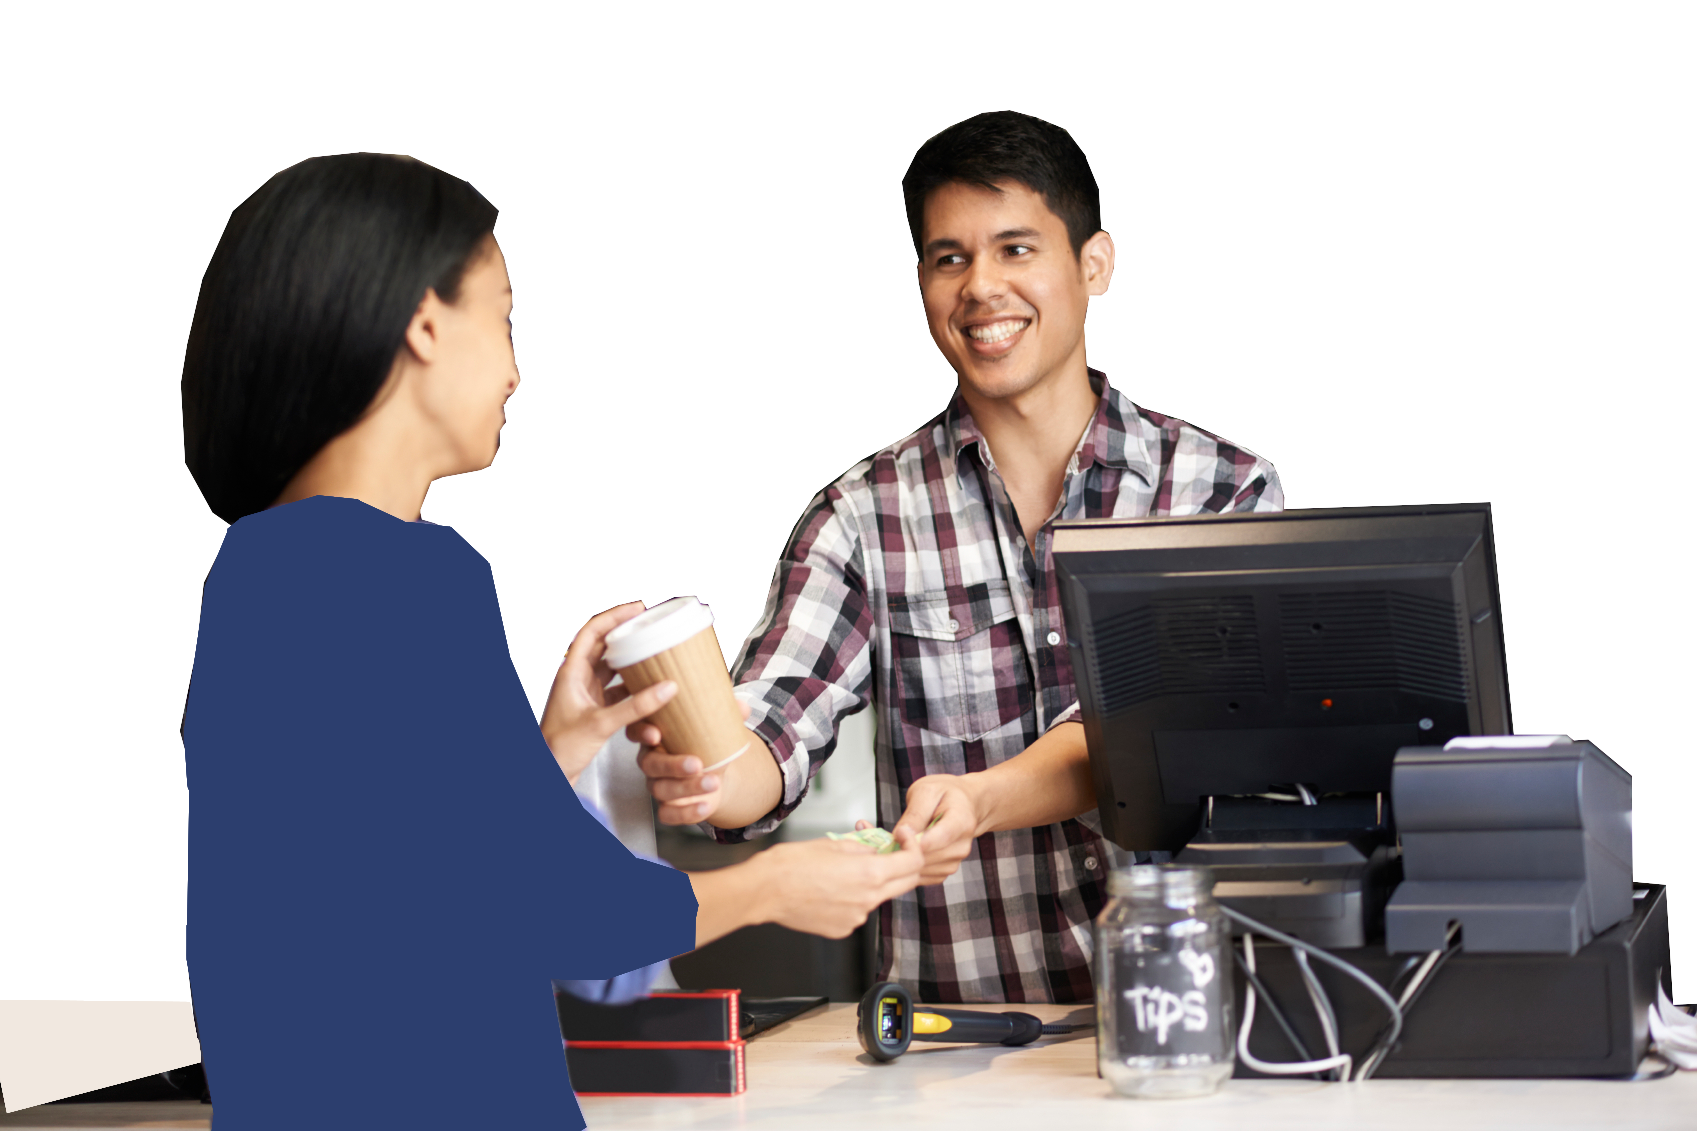
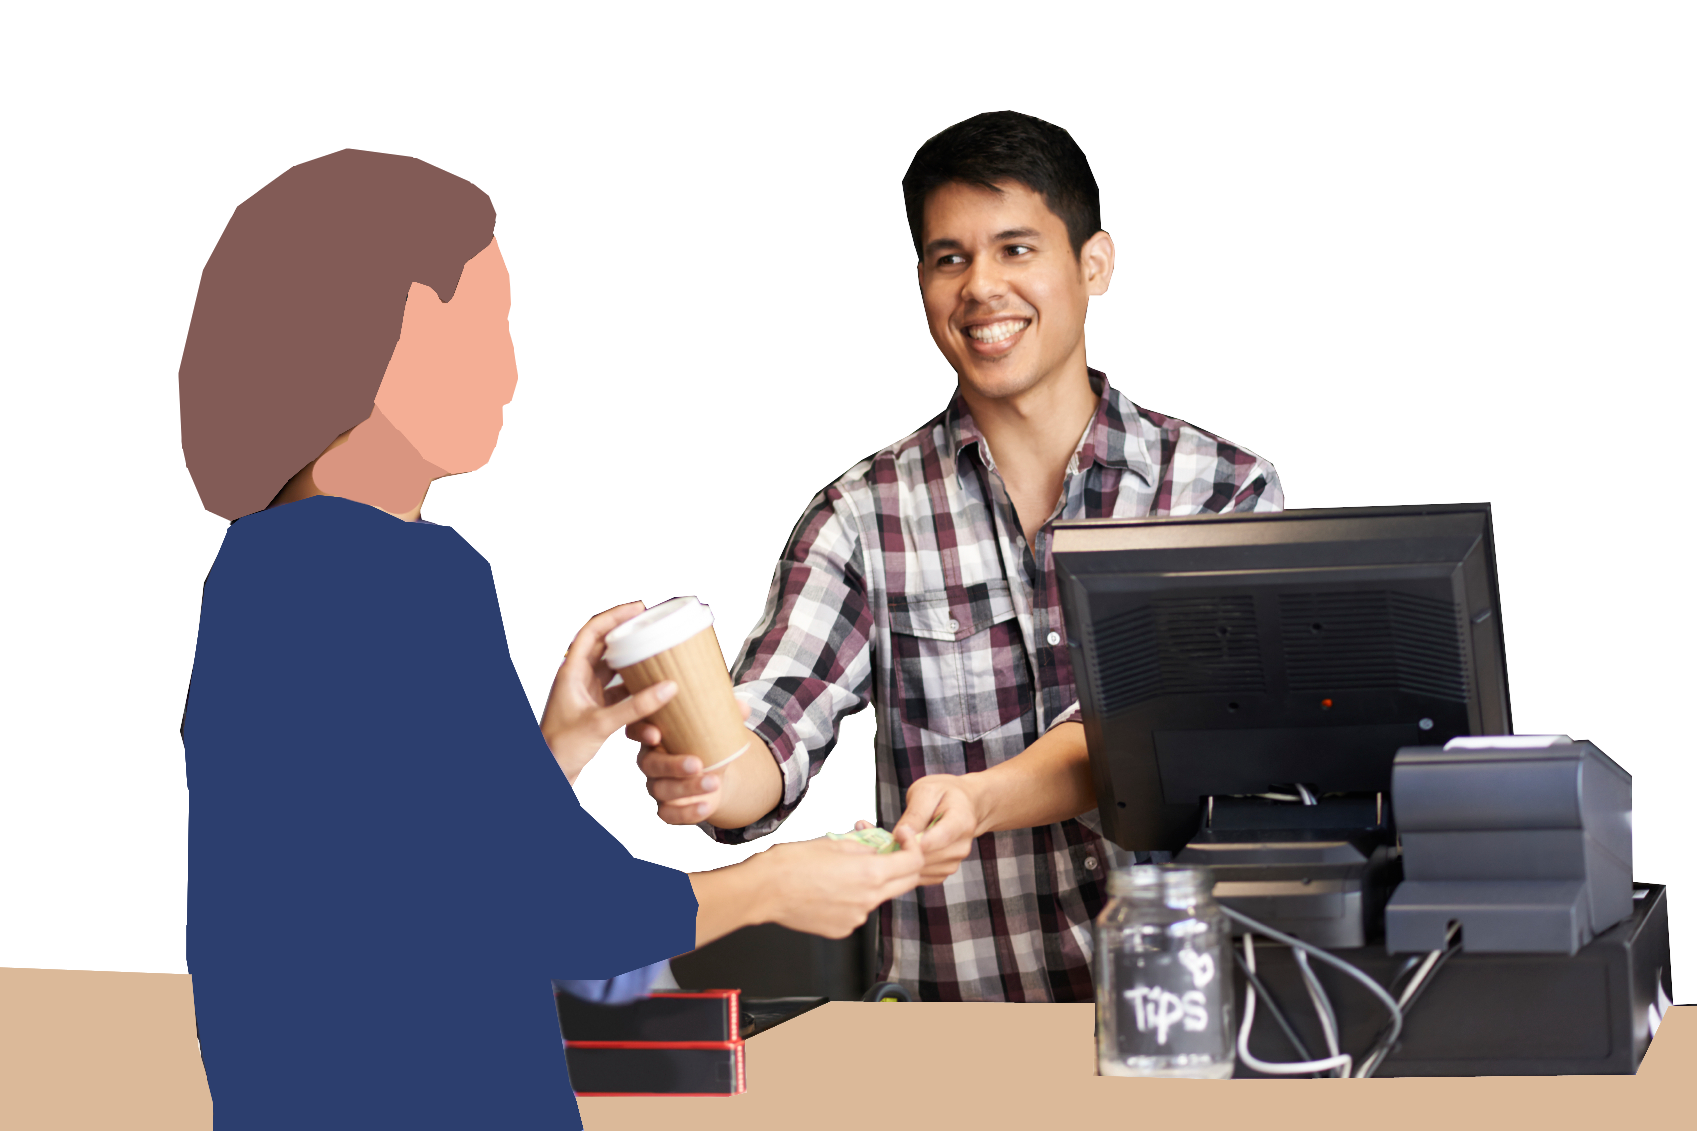
Redesigned products pages (black box on the forward of picture). Changed some illustrations.

diff --git a/website/templates/eye_guest.html b/website/templates/eye_guest.html
@@ -8,32 +8,35 @@
 
 {% block body %}
 	<header style="background-image: url('/static/img/eyeGuest/header.jpg');"> 
-		<div class="container text-center">
-			<div>
-				<h1 class="display-3">Eye-Guest</h1>
-				<h2 class="display-4" style="font-weight: 300 !important;">Узнайте вашего клиента. Без карт и приложений.</h2>
-				<ul>
-					<li>Restaurants, cafes, fastfoods</li>
-					<li>Hotels</li>
-					<li>Retails</li>
-				</ul>
-				<button class="btn btn-primary">Попробовать</button>
-				<button class="btn btn-secondary">Подробнее</button>
+		<div class="container text-center" style="">
+			<h1 class="">Eye-Guest</h1>
+			<h2 class="display-3">Узнайте вашего клиента. Без карт и приложений.</h2>
+			<hr class="mb-4">
+			<div class="row px-4 mb-4 text-left">
+				<div class="col">
+					<h3>Description</h3> 
+					Easy loyanlty programs
+					Eye-Service is AI based technology for match best waiter to each group f your guests. 
+					Some some some some some text tex text text here<br>
+					BTW: 
+					<ul>
+						<li>Restaurants, cafes, fastfoods</li>
+						<li>Hotels</li>
+						<li>Retails</li>
+					</ul>
+				</div>
+				<div class="col">  
+					<h3>Integration</h3>
+					Integration with R-Keeper, IIKO and 
+					</div>	
+				<div class="col">
+					<h3>Prices</h3> 
+				</div>
 			</div>
+			
+			<button class="btn btn-try text-uppercase">Попробовать</button>
 		</div>
 	</header>
-
-	<section> 
-		<h2>Easy loyanlty programs</h2>
-		Integration with R-Keeper, IIKO and 
-	</section>
-
-	<section> 
-		<h2 class="text-center">Installation</h2>
-		
-		<div class="container">
-		</div> 
-	</section>
 {% endblock %}
 
 

diff --git a/website/templates/eye_marketer.html b/website/templates/eye_marketer.html
@@ -8,13 +8,33 @@
 
 {% block body %}
 	<header style="background-image: url('/static/img/eyeMarketer/header.jpg');"> 
-		<div class="container text-center">
-			<div>
-				<h1 class="display-3">eyeMarketer</h1>
-				<h2 class="display-4">Портет гостся для каждого чека. Более 300 метрик.</h2>
-				<button class="btn btn-primary">Попробовать</button>
-				<button class="btn btn-secondary">Подробнее</button>
+		<div class="container text-center" style="">
+			<h1 class="">Eye-Marketer</h1>
+			<h2 class="display-4">Портет гостся для каждого чека. Более 300 метрик.</h2>
+			<hr class="mb-4">
+			<div class="row px-4 mb-4 text-left">
+				<div class="col">
+					<h3>Description</h3> 
+					Easy loyanlty programs
+					Eye-Service is AI based technology for match best waiter to each group f your guests. 
+					Some some some some some text tex text text here<br>
+					BTW: 
+					<ul>
+						<li>Restaurants, cafes, fastfoods</li>
+						<li>Hotels</li>
+						<li>Retails</li>
+					</ul>
+				</div>
+				<div class="col">  
+					<h3>Integration</h3>
+					Integration with R-Keeper, IIKO and 
+					</div>	
+				<div class="col">
+					<h3>Prices</h3> 
+				</div>
 			</div>
+			
+			<button class="btn btn-try text-uppercase">Попробовать</button>
 		</div>
 	</header>
 {% endblock %}

diff --git a/website/templates/eye_service.html b/website/templates/eye_service.html
@@ -8,25 +8,33 @@
 
 {% block body %}
 	<header style="background-image: url('/static/img/eyeService/header.jpg');"> 
-		<div class="container text-center">
-			<div style="padding-top: 25%;">
-				<h1 class="display-4">Eye-Service</h1>
-				<h2 class="display-2">Best waiter for each guest</h2>
-				<button class="btn btn-primary">Попробовать</button>
-				<button class="btn btn-secondary">Подробнее</button>
+		<div class="container text-center" style="">
+			<h1 class="">Eye-Service</h1>
+			<h2 class="display-3">Best waiter for each guest</h2>
+			<hr class="mb-4">
+			<div class="row px-4 mb-4 text-left">
+				<div class="col">
+					<h3>Description</h3> 
+					Eye-Service is AI based technology for match best waiter to each group f your guests. 
+					Some some some some some text tex text text here<br>
+					BTW: 
+					<ul>
+						<li>HR</li>
+						<li>Guests prioritize</li>
+					</ul>
+				</div>
+				<div class="col">  
+					<h3>Integration</h3>
+
+					</div>	
+				<div class="col">
+					<h3>Prices</h3> 
+				</div>
 			</div>
+			
+			<button class="btn btn-try text-uppercase">Попробовать</button>
 		</div>
 	</header>
-
-	<section>
-		<h2>Integration</h2>		
-	</section>
-
-	<section>
-		<h2>Usage in hiring</h2>
-
-
-	</section>
 {% endblock %}
 
 

diff --git a/static/css/product_page.css b/static/css/product_page.css
@@ -4,8 +4,12 @@ body {
 }
 
 header {
+	position: relative;
+	
 	height: 92.5%;  /* NOTE: navbar height is 7.5% */
+	
 	background-size: cover;
+	color: #fff; 
 }
 
 header h1, 
@@ -14,6 +18,21 @@ header h2 {
 	color: white;
 }
 
-section {
-	height: 80%;
+header .container {
+	position: absolute; 
+	top: 50%; 
+	left: 50%; 
+	transform: translate(-50%, -50%);
+	
+	padding: 3%; 
+
+	background-color: rgba(42,42,42,.975); 
+}
+
+header .btn-try {
+	background-color: transparent; 
+	color: #fff; 
+	border-style: solid; 
+	border-width: .1rem; 
+	border-color: #fff;
 }
